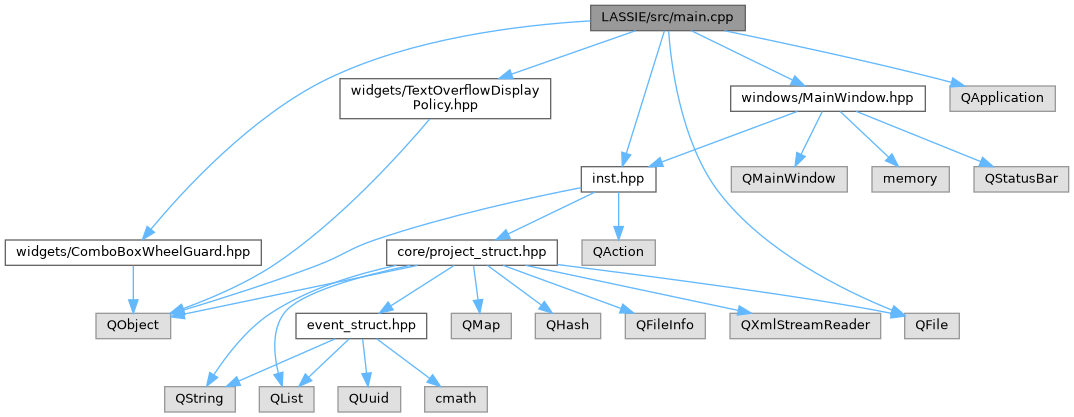
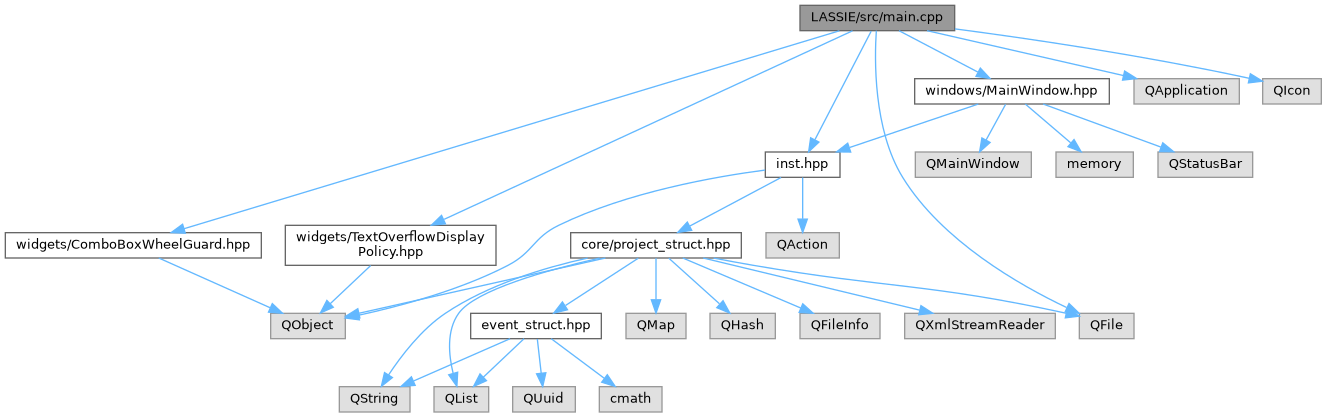
docs: publish latest (1a79f92d2aa4ea7b29a4f0150a3fbe156e6d1246) 1a79f92d2aa4ea7b29a4f0150a3fbe156e6d1246

diff --git a/latest/LASSIE/html/main_8cpp_source.html b/latest/LASSIE/html/main_8cpp_source.html
@@ -86,73 +86,128 @@ $(document).ready(function() { init_codefold(0); });
 <div class="line"><a id="l00002" name="l00002"></a><span class="lineno">    2</span> </div>
 <div class="line"><a id="l00003" name="l00003"></a><span class="lineno">    3</span><span class="preprocessor">#include &lt;QApplication&gt;</span></div>
 <div class="line"><a id="l00004" name="l00004"></a><span class="lineno">    4</span><span class="preprocessor">#include &lt;QFile&gt;</span></div>
-<div class="line"><a id="l00005" name="l00005"></a><span class="lineno">    5</span><span class="preprocessor">#ifdef DISSCO_ENABLE_UI_LAYOUT_TESTS</span></div>
-<div class="line"><a id="l00006" name="l00006"></a><span class="lineno">    6</span><span class="preprocessor">#include &lt;QDebug&gt;</span></div>
-<div class="line"><a id="l00007" name="l00007"></a><span class="lineno">    7</span><span class="preprocessor">#include &lt;QLabel&gt;</span></div>
-<div class="line"><a id="l00008" name="l00008"></a><span class="lineno">    8</span><span class="preprocessor">#include &lt;QLayout&gt;</span></div>
-<div class="line"><a id="l00009" name="l00009"></a><span class="lineno">    9</span><span class="preprocessor">#include &quot;<a class="code" href="EnvelopeLibraryWindow_8hpp.html">windows/EnvelopeLibraryWindow.hpp</a>&quot;</span></div>
-<div class="line"><a id="l00010" name="l00010"></a><span class="lineno">   10</span><span class="preprocessor">#endif</span></div>
-<div class="line"><a id="l00011" name="l00011"></a><span class="lineno">   11</span><span class="preprocessor">#include &quot;<a class="code" href="ComboBoxWheelGuard_8hpp.html">widgets/ComboBoxWheelGuard.hpp</a>&quot;</span></div>
-<div class="line"><a id="l00012" name="l00012"></a><span class="lineno">   12</span><span class="preprocessor">#include &quot;<a class="code" href="TextOverflowDisplayPolicy_8hpp.html">widgets/TextOverflowDisplayPolicy.hpp</a>&quot;</span></div>
-<div class="line"><a id="l00013" name="l00013"></a><span class="lineno">   13</span><span class="preprocessor">#include &quot;<a class="code" href="MainWindow_8hpp.html">windows/MainWindow.hpp</a>&quot;</span></div>
-<div class="line"><a id="l00014" name="l00014"></a><span class="lineno">   14</span> </div>
-<div class="line"><a id="l00015" name="l00015"></a><span class="lineno">   15</span><span class="keywordtype">void</span> <a class="code hl_function" href="main_8cpp.html#af7ab3ca3de0ba687af5c308a0180a0ee">registerAllFunctions</a>();</div>
-<div class="line"><a id="l00016" name="l00016"></a><span class="lineno">   16</span> </div>
-<div class="foldopen" id="foldopen00017" data-start="{" data-end="}">
-<div class="line"><a id="l00017" name="l00017"></a><span class="lineno"><a class="line" href="main_8cpp.html#a0ddf1224851353fc92bfbff6f499fa97">   17</a></span><span class="keywordtype">int</span> <a class="code hl_function" href="main_8cpp.html#a0ddf1224851353fc92bfbff6f499fa97">main</a>(<span class="keywordtype">int</span> argc, <span class="keywordtype">char</span> *argv[])</div>
-<div class="line"><a id="l00018" name="l00018"></a><span class="lineno">   18</span>{</div>
-<div class="line"><a id="l00019" name="l00019"></a><span class="lineno">   19</span>    <span class="comment">// QSettings (used here and in the Updater) needs stable org/app</span></div>
-<div class="line"><a id="l00020" name="l00020"></a><span class="lineno">   20</span>    <span class="comment">// metadata; otherwise its on-disk location is platform-default and</span></div>
-<div class="line"><a id="l00021" name="l00021"></a><span class="lineno">   21</span>    <span class="comment">// varies between binaries. Set before QApplication is constructed.</span></div>
-<div class="line"><a id="l00022" name="l00022"></a><span class="lineno">   22</span>    QCoreApplication::setOrganizationName(<span class="stringliteral">&quot;DISSCO&quot;</span>);</div>
-<div class="line"><a id="l00023" name="l00023"></a><span class="lineno">   23</span>    QCoreApplication::setOrganizationDomain(<span class="stringliteral">&quot;dissco.illinois.edu&quot;</span>);</div>
-<div class="line"><a id="l00024" name="l00024"></a><span class="lineno">   24</span>    QCoreApplication::setApplicationName(<span class="stringliteral">&quot;LASSIE&quot;</span>);</div>
+<div class="line"><a id="l00005" name="l00005"></a><span class="lineno">    5</span><span class="preprocessor">#include &lt;QIcon&gt;</span></div>
+<div class="line"><a id="l00006" name="l00006"></a><span class="lineno">    6</span><span class="preprocessor">#ifdef DISSCO_ENABLE_UI_LAYOUT_TESTS</span></div>
+<div class="line"><a id="l00007" name="l00007"></a><span class="lineno">    7</span><span class="preprocessor">#include &lt;QDebug&gt;</span></div>
+<div class="line"><a id="l00008" name="l00008"></a><span class="lineno">    8</span><span class="preprocessor">#include &lt;QFontDatabase&gt;</span></div>
+<div class="line"><a id="l00009" name="l00009"></a><span class="lineno">    9</span><span class="preprocessor">#include &lt;QFontInfo&gt;</span></div>
+<div class="line"><a id="l00010" name="l00010"></a><span class="lineno">   10</span><span class="preprocessor">#include &lt;QLabel&gt;</span></div>
+<div class="line"><a id="l00011" name="l00011"></a><span class="lineno">   11</span><span class="preprocessor">#include &lt;QLayout&gt;</span></div>
+<div class="line"><a id="l00012" name="l00012"></a><span class="lineno">   12</span><span class="preprocessor">#ifdef Q_OS_WIN</span></div>
+<div class="line"><a id="l00013" name="l00013"></a><span class="lineno">   13</span><span class="preprocessor">#ifndef NOGDI</span></div>
+<div class="line"><a id="l00014" name="l00014"></a><span class="lineno">   14</span><span class="preprocessor">#define NOGDI</span></div>
+<div class="line"><a id="l00015" name="l00015"></a><span class="lineno">   15</span><span class="preprocessor">#endif</span></div>
+<div class="line"><a id="l00016" name="l00016"></a><span class="lineno">   16</span><span class="preprocessor">#include &lt;qt_windows.h&gt;</span></div>
+<div class="line"><a id="l00017" name="l00017"></a><span class="lineno">   17</span><span class="preprocessor">#endif</span></div>
+<div class="line"><a id="l00018" name="l00018"></a><span class="lineno">   18</span><span class="preprocessor">#include &quot;<a class="code" href="EnvelopeLibraryWindow_8hpp.html">windows/EnvelopeLibraryWindow.hpp</a>&quot;</span></div>
+<div class="line"><a id="l00019" name="l00019"></a><span class="lineno">   19</span><span class="preprocessor">#endif</span></div>
+<div class="line"><a id="l00020" name="l00020"></a><span class="lineno">   20</span><span class="preprocessor">#include &quot;<a class="code" href="ComboBoxWheelGuard_8hpp.html">widgets/ComboBoxWheelGuard.hpp</a>&quot;</span></div>
+<div class="line"><a id="l00021" name="l00021"></a><span class="lineno">   21</span><span class="preprocessor">#include &quot;<a class="code" href="TextOverflowDisplayPolicy_8hpp.html">widgets/TextOverflowDisplayPolicy.hpp</a>&quot;</span></div>
+<div class="line"><a id="l00022" name="l00022"></a><span class="lineno">   22</span><span class="preprocessor">#include &quot;<a class="code" href="MainWindow_8hpp.html">windows/MainWindow.hpp</a>&quot;</span></div>
+<div class="line"><a id="l00023" name="l00023"></a><span class="lineno">   23</span> </div>
+<div class="line"><a id="l00024" name="l00024"></a><span class="lineno">   24</span><span class="keywordtype">void</span> <a class="code hl_function" href="main_8cpp.html#af7ab3ca3de0ba687af5c308a0180a0ee">registerAllFunctions</a>();</div>
 <div class="line"><a id="l00025" name="l00025"></a><span class="lineno">   25</span> </div>
-<div class="line"><a id="l00026" name="l00026"></a><span class="lineno">   26</span>    QApplication a(argc, argv);</div>
-<div class="line"><a id="l00027" name="l00027"></a><span class="lineno">   27</span>    <a class="code hl_class" href="classComboBoxWheelGuard.html">ComboBoxWheelGuard</a> comboBoxWheelGuard(a);</div>
-<div class="line"><a id="l00028" name="l00028"></a><span class="lineno">   28</span>    <a class="code hl_class" href="classTextOverflowDisplayPolicy.html">TextOverflowDisplayPolicy</a> textOverflowDisplayPolicy(a);</div>
-<div class="line"><a id="l00029" name="l00029"></a><span class="lineno">   29</span> </div>
-<div class="line"><a id="l00030" name="l00030"></a><span class="lineno">   30</span><span class="preprocessor">#ifdef DISSCO_ENABLE_UI_LAYOUT_TESTS</span></div>
-<div class="line"><a id="l00031" name="l00031"></a><span class="lineno">   31</span>    <span class="keywordflow">if</span> (qEnvironmentVariableIsSet(<span class="stringliteral">&quot;DISSCO_TEST_ENVELOPE_LAYOUT&quot;</span>)) {</div>
-<div class="line"><a id="l00032" name="l00032"></a><span class="lineno">   32</span>        <a class="code hl_class" href="classEnvelopeLibraryWindow.html">EnvelopeLibraryWindow</a> window;</div>
-<div class="line"><a id="l00033" name="l00033"></a><span class="lineno">   33</span>        window.ensurePolished();</div>
-<div class="line"><a id="l00034" name="l00034"></a><span class="lineno">   34</span>        window.show();</div>
-<div class="line"><a id="l00035" name="l00035"></a><span class="lineno">   35</span>        <span class="keywordflow">for</span> (<span class="keywordtype">int</span> i = 0; i &lt; 3; ++i) {</div>
-<div class="line"><a id="l00036" name="l00036"></a><span class="lineno">   36</span>            window.centralWidget()-&gt;layout()-&gt;activate();</div>
-<div class="line"><a id="l00037" name="l00037"></a><span class="lineno">   37</span>            QApplication::processEvents();</div>
-<div class="line"><a id="l00038" name="l00038"></a><span class="lineno">   38</span>        }</div>
-<div class="line"><a id="l00039" name="l00039"></a><span class="lineno">   39</span> </div>
-<div class="line"><a id="l00040" name="l00040"></a><span class="lineno">   40</span>        QLabel* legend = window.findChild&lt;QLabel*&gt;(<span class="stringliteral">&quot;envelopeLegend&quot;</span>);</div>
-<div class="line"><a id="l00041" name="l00041"></a><span class="lineno">   41</span>        <span class="keywordflow">if</span> (!legend) {</div>
-<div class="line"><a id="l00042" name="l00042"></a><span class="lineno">   42</span>            qCritical() &lt;&lt; <span class="stringliteral">&quot;Envelope legend was not found&quot;</span>;</div>
-<div class="line"><a id="l00043" name="l00043"></a><span class="lineno">   43</span>            <span class="keywordflow">return</span> 1;</div>
-<div class="line"><a id="l00044" name="l00044"></a><span class="lineno">   44</span>        }</div>
-<div class="line"><a id="l00045" name="l00045"></a><span class="lineno">   45</span> </div>
-<div class="line"><a id="l00046" name="l00046"></a><span class="lineno">   46</span>        <span class="keyword">const</span> QRect legendInCentral(</div>
-<div class="line"><a id="l00047" name="l00047"></a><span class="lineno">   47</span>            legend-&gt;mapTo(window.centralWidget(), QPoint()), legend-&gt;size());</div>
-<div class="line"><a id="l00048" name="l00048"></a><span class="lineno">   48</span>        <span class="keyword">const</span> <span class="keywordtype">int</span> requiredHeight = legend-&gt;heightForWidth(legend-&gt;width());</div>
-<div class="line"><a id="l00049" name="l00049"></a><span class="lineno">   49</span>        <span class="keyword">const</span> <span class="keywordtype">bool</span> fullyVisible =</div>
-<div class="line"><a id="l00050" name="l00050"></a><span class="lineno">   50</span>            window.centralWidget()-&gt;rect().contains(legendInCentral)</div>
-<div class="line"><a id="l00051" name="l00051"></a><span class="lineno">   51</span>            &amp;&amp; legend-&gt;visibleRegion().contains(legend-&gt;rect())</div>
-<div class="line"><a id="l00052" name="l00052"></a><span class="lineno">   52</span>            &amp;&amp; legend-&gt;height() &gt;= requiredHeight;</div>
-<div class="line"><a id="l00053" name="l00053"></a><span class="lineno">   53</span> </div>
-<div class="line"><a id="l00054" name="l00054"></a><span class="lineno">   54</span>        <span class="keywordflow">if</span> (!fullyVisible) {</div>
-<div class="line"><a id="l00055" name="l00055"></a><span class="lineno">   55</span>            qCritical() &lt;&lt; <span class="stringliteral">&quot;Envelope legend is clipped:&quot;</span></div>
-<div class="line"><a id="l00056" name="l00056"></a><span class="lineno">   56</span>                        &lt;&lt; <span class="stringliteral">&quot;actual&quot;</span> &lt;&lt; legend-&gt;size()</div>
-<div class="line"><a id="l00057" name="l00057"></a><span class="lineno">   57</span>                        &lt;&lt; <span class="stringliteral">&quot;required height&quot;</span> &lt;&lt; requiredHeight</div>
-<div class="line"><a id="l00058" name="l00058"></a><span class="lineno">   58</span>                        &lt;&lt; <span class="stringliteral">&quot;visible region&quot;</span> &lt;&lt; legend-&gt;visibleRegion();</div>
+<div class="foldopen" id="foldopen00026" data-start="{" data-end="}">
+<div class="line"><a id="l00026" name="l00026"></a><span class="lineno"><a class="line" href="main_8cpp.html#a0ddf1224851353fc92bfbff6f499fa97">   26</a></span><span class="keywordtype">int</span> <a class="code hl_function" href="main_8cpp.html#a0ddf1224851353fc92bfbff6f499fa97">main</a>(<span class="keywordtype">int</span> argc, <span class="keywordtype">char</span> *argv[])</div>
+<div class="line"><a id="l00027" name="l00027"></a><span class="lineno">   27</span>{</div>
+<div class="line"><a id="l00028" name="l00028"></a><span class="lineno">   28</span>    <span class="comment">// QSettings (used here and in the Updater) needs stable org/app</span></div>
+<div class="line"><a id="l00029" name="l00029"></a><span class="lineno">   29</span>    <span class="comment">// metadata; otherwise its on-disk location is platform-default and</span></div>
+<div class="line"><a id="l00030" name="l00030"></a><span class="lineno">   30</span>    <span class="comment">// varies between binaries. Set before QApplication is constructed.</span></div>
+<div class="line"><a id="l00031" name="l00031"></a><span class="lineno">   31</span>    QCoreApplication::setOrganizationName(<span class="stringliteral">&quot;DISSCO&quot;</span>);</div>
+<div class="line"><a id="l00032" name="l00032"></a><span class="lineno">   32</span>    QCoreApplication::setOrganizationDomain(<span class="stringliteral">&quot;dissco.illinois.edu&quot;</span>);</div>
+<div class="line"><a id="l00033" name="l00033"></a><span class="lineno">   33</span>    QCoreApplication::setApplicationName(<span class="stringliteral">&quot;LASSIE&quot;</span>);</div>
+<div class="line"><a id="l00034" name="l00034"></a><span class="lineno">   34</span> </div>
+<div class="line"><a id="l00035" name="l00035"></a><span class="lineno">   35</span>    QApplication a(argc, argv);</div>
+<div class="line"><a id="l00036" name="l00036"></a><span class="lineno">   36</span><span class="preprocessor">#ifndef Q_OS_MACOS</span></div>
+<div class="line"><a id="l00037" name="l00037"></a><span class="lineno">   37</span>    a.setWindowIcon(QIcon(QStringLiteral(<span class="stringliteral">&quot;:/icons/LASSIE.png&quot;</span>)));</div>
+<div class="line"><a id="l00038" name="l00038"></a><span class="lineno">   38</span><span class="preprocessor">#endif</span></div>
+<div class="line"><a id="l00039" name="l00039"></a><span class="lineno">   39</span><span class="preprocessor">#ifdef Q_OS_LINUX</span></div>
+<div class="line"><a id="l00040" name="l00040"></a><span class="lineno">   40</span>    a.setDesktopFileName(QStringLiteral(<span class="stringliteral">&quot;LASSIE&quot;</span>));</div>
+<div class="line"><a id="l00041" name="l00041"></a><span class="lineno">   41</span><span class="preprocessor">#endif</span></div>
+<div class="line"><a id="l00042" name="l00042"></a><span class="lineno">   42</span>    <a class="code hl_class" href="classComboBoxWheelGuard.html">ComboBoxWheelGuard</a> comboBoxWheelGuard(a);</div>
+<div class="line"><a id="l00043" name="l00043"></a><span class="lineno">   43</span>    <a class="code hl_class" href="classTextOverflowDisplayPolicy.html">TextOverflowDisplayPolicy</a> textOverflowDisplayPolicy(a);</div>
+<div class="line"><a id="l00044" name="l00044"></a><span class="lineno">   44</span> </div>
+<div class="line"><a id="l00045" name="l00045"></a><span class="lineno">   45</span><span class="preprocessor">#ifdef DISSCO_ENABLE_UI_LAYOUT_TESTS</span></div>
+<div class="line"><a id="l00046" name="l00046"></a><span class="lineno">   46</span><span class="preprocessor">#ifdef Q_OS_WIN</span></div>
+<div class="line"><a id="l00047" name="l00047"></a><span class="lineno">   47</span>    <span class="keywordflow">if</span> (qEnvironmentVariableIsSet(<span class="stringliteral">&quot;DISSCO_TEST_WINDOWS_FONT&quot;</span>)) {</div>
+<div class="line"><a id="l00048" name="l00048"></a><span class="lineno">   48</span>        <span class="keyword">const</span> QFont font = a.font();</div>
+<div class="line"><a id="l00049" name="l00049"></a><span class="lineno">   49</span>        <span class="keywordflow">if</span> (!QFontDatabase::families().contains(font.family(), Qt::CaseInsensitive)) {</div>
+<div class="line"><a id="l00050" name="l00050"></a><span class="lineno">   50</span>            qWarning() &lt;&lt; <span class="stringliteral">&quot;Skipping font check: system font uses an unlisted alias&quot;</span></div>
+<div class="line"><a id="l00051" name="l00051"></a><span class="lineno">   51</span>                       &lt;&lt; font.family();</div>
+<div class="line"><a id="l00052" name="l00052"></a><span class="lineno">   52</span>            <span class="keywordflow">return</span> 77;</div>
+<div class="line"><a id="l00053" name="l00053"></a><span class="lineno">   53</span>        }</div>
+<div class="line"><a id="l00054" name="l00054"></a><span class="lineno">   54</span>        <span class="keyword">const</span> QString resolvedFamily = QFontInfo(font).family();</div>
+<div class="line"><a id="l00055" name="l00055"></a><span class="lineno">   55</span>        <span class="keywordflow">if</span> (font.family().compare(resolvedFamily, Qt::CaseInsensitive) != 0) {</div>
+<div class="line"><a id="l00056" name="l00056"></a><span class="lineno">   56</span>            qCritical() &lt;&lt; <span class="stringliteral">&quot;Installed Windows system font was substituted:&quot;</span></div>
+<div class="line"><a id="l00057" name="l00057"></a><span class="lineno">   57</span>                        &lt;&lt; <span class="stringliteral">&quot;requested&quot;</span> &lt;&lt; font.family() &lt;&lt; <span class="stringliteral">&quot;resolved&quot;</span> &lt;&lt; resolvedFamily;</div>
+<div class="line"><a id="l00058" name="l00058"></a><span class="lineno">   58</span>            <span class="keywordflow">return</span> 1;</div>
 <div class="line"><a id="l00059" name="l00059"></a><span class="lineno">   59</span>        }</div>
-<div class="line"><a id="l00060" name="l00060"></a><span class="lineno">   60</span> </div>
-<div class="line"><a id="l00061" name="l00061"></a><span class="lineno">   61</span>        <span class="keywordflow">return</span> fullyVisible ? 0 : 1;</div>
-<div class="line"><a id="l00062" name="l00062"></a><span class="lineno">   62</span>    }</div>
-<div class="line"><a id="l00063" name="l00063"></a><span class="lineno">   63</span><span class="preprocessor">#endif</span></div>
-<div class="line"><a id="l00064" name="l00064"></a><span class="lineno">   64</span> </div>
-<div class="line"><a id="l00065" name="l00065"></a><span class="lineno">   65</span>    <a class="code hl_function" href="main_8cpp.html#af7ab3ca3de0ba687af5c308a0180a0ee">registerAllFunctions</a>();</div>
-<div class="line"><a id="l00066" name="l00066"></a><span class="lineno">   66</span>    <a class="code hl_class" href="classInst.html">Inst</a> *m = <a class="code hl_function" href="classInst.html#a381828beaa899ba49afd23d835ac514f">Inst::instance</a>();</div>
-<div class="line"><a id="l00067" name="l00067"></a><span class="lineno">   67</span>    <a class="code hl_class" href="classMainWindow.html">MainWindow</a> *w = <span class="keyword">new</span> <a class="code hl_class" href="classMainWindow.html">MainWindow</a>(m);</div>
-<div class="line"><a id="l00068" name="l00068"></a><span class="lineno">   68</span>    w-&gt;show();</div>
-<div class="line"><a id="l00069" name="l00069"></a><span class="lineno">   69</span>    <span class="keywordflow">return</span> a.exec();</div>
-<div class="line"><a id="l00070" name="l00070"></a><span class="lineno">   70</span>}</div>
+<div class="line"><a id="l00060" name="l00060"></a><span class="lineno">   60</span>        <span class="keywordflow">return</span> 0;</div>
+<div class="line"><a id="l00061" name="l00061"></a><span class="lineno">   61</span>    }</div>
+<div class="line"><a id="l00062" name="l00062"></a><span class="lineno">   62</span><span class="preprocessor">#endif</span></div>
+<div class="line"><a id="l00063" name="l00063"></a><span class="lineno">   63</span> </div>
+<div class="line"><a id="l00064" name="l00064"></a><span class="lineno">   64</span>    <span class="keywordflow">if</span> (qEnvironmentVariableIsSet(<span class="stringliteral">&quot;DISSCO_TEST_APPLICATION_IDENTITY&quot;</span>)) {</div>
+<div class="line"><a id="l00065" name="l00065"></a><span class="lineno">   65</span>        <a class="code hl_class" href="classEnvelopeLibraryWindow.html">EnvelopeLibraryWindow</a> window;</div>
+<div class="line"><a id="l00066" name="l00066"></a><span class="lineno">   66</span>        <span class="keywordflow">if</span> (a.windowIcon().pixmap(32, 32).isNull()</div>
+<div class="line"><a id="l00067" name="l00067"></a><span class="lineno">   67</span>            || window.windowIcon().pixmap(32, 32).isNull()) {</div>
+<div class="line"><a id="l00068" name="l00068"></a><span class="lineno">   68</span>            qCritical() &lt;&lt; <span class="stringliteral">&quot;Application and top-level windows must have a usable icon&quot;</span>;</div>
+<div class="line"><a id="l00069" name="l00069"></a><span class="lineno">   69</span>            <span class="keywordflow">return</span> 1;</div>
+<div class="line"><a id="l00070" name="l00070"></a><span class="lineno">   70</span>        }</div>
+<div class="line"><a id="l00071" name="l00071"></a><span class="lineno">   71</span><span class="preprocessor">#ifdef Q_OS_WIN</span></div>
+<div class="line"><a id="l00072" name="l00072"></a><span class="lineno">   72</span>        <span class="keywordflow">if</span> (!FindResourceW(<span class="keyword">nullptr</span>, MAKEINTRESOURCEW(1), RT_GROUP_ICON)) {</div>
+<div class="line"><a id="l00073" name="l00073"></a><span class="lineno">   73</span>            qCritical() &lt;&lt; <span class="stringliteral">&quot;Executable is missing its Windows application icon resource&quot;</span>;</div>
+<div class="line"><a id="l00074" name="l00074"></a><span class="lineno">   74</span>            <span class="keywordflow">return</span> 1;</div>
+<div class="line"><a id="l00075" name="l00075"></a><span class="lineno">   75</span>        }</div>
+<div class="line"><a id="l00076" name="l00076"></a><span class="lineno">   76</span><span class="preprocessor">#endif</span></div>
+<div class="line"><a id="l00077" name="l00077"></a><span class="lineno">   77</span><span class="preprocessor">#ifdef Q_OS_LINUX</span></div>
+<div class="line"><a id="l00078" name="l00078"></a><span class="lineno">   78</span>        <span class="keywordflow">if</span> (a.desktopFileName() != QStringLiteral(<span class="stringliteral">&quot;LASSIE&quot;</span>)) {</div>
+<div class="line"><a id="l00079" name="l00079"></a><span class="lineno">   79</span>            qCritical() &lt;&lt; <span class="stringliteral">&quot;Desktop identity must match LASSIE.desktop&quot;</span>;</div>
+<div class="line"><a id="l00080" name="l00080"></a><span class="lineno">   80</span>            <span class="keywordflow">return</span> 1;</div>
+<div class="line"><a id="l00081" name="l00081"></a><span class="lineno">   81</span>        }</div>
+<div class="line"><a id="l00082" name="l00082"></a><span class="lineno">   82</span><span class="preprocessor">#endif</span></div>
+<div class="line"><a id="l00083" name="l00083"></a><span class="lineno">   83</span>        <span class="keywordflow">return</span> 0;</div>
+<div class="line"><a id="l00084" name="l00084"></a><span class="lineno">   84</span>    }</div>
+<div class="line"><a id="l00085" name="l00085"></a><span class="lineno">   85</span> </div>
+<div class="line"><a id="l00086" name="l00086"></a><span class="lineno">   86</span>    <span class="keywordflow">if</span> (qEnvironmentVariableIsSet(<span class="stringliteral">&quot;DISSCO_TEST_ENVELOPE_LAYOUT&quot;</span>)) {</div>
+<div class="line"><a id="l00087" name="l00087"></a><span class="lineno">   87</span>        <a class="code hl_class" href="classEnvelopeLibraryWindow.html">EnvelopeLibraryWindow</a> window;</div>
+<div class="line"><a id="l00088" name="l00088"></a><span class="lineno">   88</span>        window.ensurePolished();</div>
+<div class="line"><a id="l00089" name="l00089"></a><span class="lineno">   89</span>        window.show();</div>
+<div class="line"><a id="l00090" name="l00090"></a><span class="lineno">   90</span>        <span class="keywordflow">for</span> (<span class="keywordtype">int</span> i = 0; i &lt; 3; ++i) {</div>
+<div class="line"><a id="l00091" name="l00091"></a><span class="lineno">   91</span>            window.centralWidget()-&gt;layout()-&gt;activate();</div>
+<div class="line"><a id="l00092" name="l00092"></a><span class="lineno">   92</span>            QApplication::processEvents();</div>
+<div class="line"><a id="l00093" name="l00093"></a><span class="lineno">   93</span>        }</div>
+<div class="line"><a id="l00094" name="l00094"></a><span class="lineno">   94</span> </div>
+<div class="line"><a id="l00095" name="l00095"></a><span class="lineno">   95</span>        QLabel* legend = window.findChild&lt;QLabel*&gt;(<span class="stringliteral">&quot;envelopeLegend&quot;</span>);</div>
+<div class="line"><a id="l00096" name="l00096"></a><span class="lineno">   96</span>        <span class="keywordflow">if</span> (!legend) {</div>
+<div class="line"><a id="l00097" name="l00097"></a><span class="lineno">   97</span>            qCritical() &lt;&lt; <span class="stringliteral">&quot;Envelope legend was not found&quot;</span>;</div>
+<div class="line"><a id="l00098" name="l00098"></a><span class="lineno">   98</span>            <span class="keywordflow">return</span> 1;</div>
+<div class="line"><a id="l00099" name="l00099"></a><span class="lineno">   99</span>        }</div>
+<div class="line"><a id="l00100" name="l00100"></a><span class="lineno">  100</span> </div>
+<div class="line"><a id="l00101" name="l00101"></a><span class="lineno">  101</span>        <span class="keyword">const</span> QRect legendInCentral(</div>
+<div class="line"><a id="l00102" name="l00102"></a><span class="lineno">  102</span>            legend-&gt;mapTo(window.centralWidget(), QPoint()), legend-&gt;size());</div>
+<div class="line"><a id="l00103" name="l00103"></a><span class="lineno">  103</span>        <span class="keyword">const</span> <span class="keywordtype">int</span> requiredHeight = legend-&gt;heightForWidth(legend-&gt;width());</div>
+<div class="line"><a id="l00104" name="l00104"></a><span class="lineno">  104</span>        <span class="keyword">const</span> <span class="keywordtype">bool</span> fullyVisible =</div>
+<div class="line"><a id="l00105" name="l00105"></a><span class="lineno">  105</span>            window.centralWidget()-&gt;rect().contains(legendInCentral)</div>
+<div class="line"><a id="l00106" name="l00106"></a><span class="lineno">  106</span>            &amp;&amp; legend-&gt;visibleRegion().contains(legend-&gt;rect())</div>
+<div class="line"><a id="l00107" name="l00107"></a><span class="lineno">  107</span>            &amp;&amp; legend-&gt;height() &gt;= requiredHeight;</div>
+<div class="line"><a id="l00108" name="l00108"></a><span class="lineno">  108</span> </div>
+<div class="line"><a id="l00109" name="l00109"></a><span class="lineno">  109</span>        <span class="keywordflow">if</span> (!fullyVisible) {</div>
+<div class="line"><a id="l00110" name="l00110"></a><span class="lineno">  110</span>            qCritical() &lt;&lt; <span class="stringliteral">&quot;Envelope legend is clipped:&quot;</span></div>
+<div class="line"><a id="l00111" name="l00111"></a><span class="lineno">  111</span>                        &lt;&lt; <span class="stringliteral">&quot;actual&quot;</span> &lt;&lt; legend-&gt;size()</div>
+<div class="line"><a id="l00112" name="l00112"></a><span class="lineno">  112</span>                        &lt;&lt; <span class="stringliteral">&quot;required height&quot;</span> &lt;&lt; requiredHeight</div>
+<div class="line"><a id="l00113" name="l00113"></a><span class="lineno">  113</span>                        &lt;&lt; <span class="stringliteral">&quot;visible region&quot;</span> &lt;&lt; legend-&gt;visibleRegion();</div>
+<div class="line"><a id="l00114" name="l00114"></a><span class="lineno">  114</span>        }</div>
+<div class="line"><a id="l00115" name="l00115"></a><span class="lineno">  115</span> </div>
+<div class="line"><a id="l00116" name="l00116"></a><span class="lineno">  116</span>        <span class="keywordflow">return</span> fullyVisible ? 0 : 1;</div>
+<div class="line"><a id="l00117" name="l00117"></a><span class="lineno">  117</span>    }</div>
+<div class="line"><a id="l00118" name="l00118"></a><span class="lineno">  118</span><span class="preprocessor">#endif</span></div>
+<div class="line"><a id="l00119" name="l00119"></a><span class="lineno">  119</span> </div>
+<div class="line"><a id="l00120" name="l00120"></a><span class="lineno">  120</span>    <a class="code hl_function" href="main_8cpp.html#af7ab3ca3de0ba687af5c308a0180a0ee">registerAllFunctions</a>();</div>
+<div class="line"><a id="l00121" name="l00121"></a><span class="lineno">  121</span>    <a class="code hl_class" href="classInst.html">Inst</a> *m = <a class="code hl_function" href="classInst.html#a381828beaa899ba49afd23d835ac514f">Inst::instance</a>();</div>
+<div class="line"><a id="l00122" name="l00122"></a><span class="lineno">  122</span>    <a class="code hl_class" href="classMainWindow.html">MainWindow</a> *w = <span class="keyword">new</span> <a class="code hl_class" href="classMainWindow.html">MainWindow</a>(m);</div>
+<div class="line"><a id="l00123" name="l00123"></a><span class="lineno">  123</span>    w-&gt;show();</div>
+<div class="line"><a id="l00124" name="l00124"></a><span class="lineno">  124</span>    <span class="keywordflow">return</span> a.exec();</div>
+<div class="line"><a id="l00125" name="l00125"></a><span class="lineno">  125</span>}</div>
 </div>
 <div class="ttc" id="aComboBoxWheelGuard_8hpp_html"><div class="ttname"><a href="ComboBoxWheelGuard_8hpp.html">ComboBoxWheelGuard.hpp</a></div></div>
 <div class="ttc" id="aEnvelopeLibraryWindow_8hpp_html"><div class="ttname"><a href="EnvelopeLibraryWindow_8hpp.html">EnvelopeLibraryWindow.hpp</a></div></div>
@@ -165,7 +220,7 @@ $(document).ready(function() { init_codefold(0); });
 <div class="ttc" id="aclassMainWindow_html"><div class="ttname"><a href="classMainWindow.html">MainWindow</a></div><div class="ttdoc">Top-level Qt main window for LASSIE.</div><div class="ttdef"><b>Definition</b> <a href="MainWindow_8hpp_source.html#l00039">MainWindow.hpp:40</a></div></div>
 <div class="ttc" id="aclassTextOverflowDisplayPolicy_html"><div class="ttname"><a href="classTextOverflowDisplayPolicy.html">TextOverflowDisplayPolicy</a></div><div class="ttdef"><b>Definition</b> <a href="TextOverflowDisplayPolicy_8hpp_source.html#l00013">TextOverflowDisplayPolicy.hpp:14</a></div></div>
 <div class="ttc" id="ainst_8hpp_html"><div class="ttname"><a href="inst_8hpp.html">inst.hpp</a></div></div>
-<div class="ttc" id="amain_8cpp_html_a0ddf1224851353fc92bfbff6f499fa97"><div class="ttname"><a href="main_8cpp.html#a0ddf1224851353fc92bfbff6f499fa97">main</a></div><div class="ttdeci">int main(int argc, char *argv[])</div><div class="ttdef"><b>Definition</b> <a href="main_8cpp_source.html#l00017">main.cpp:17</a></div></div>
+<div class="ttc" id="amain_8cpp_html_a0ddf1224851353fc92bfbff6f499fa97"><div class="ttname"><a href="main_8cpp.html#a0ddf1224851353fc92bfbff6f499fa97">main</a></div><div class="ttdeci">int main(int argc, char *argv[])</div><div class="ttdef"><b>Definition</b> <a href="main_8cpp_source.html#l00026">main.cpp:26</a></div></div>
 <div class="ttc" id="amain_8cpp_html_af7ab3ca3de0ba687af5c308a0180a0ee"><div class="ttname"><a href="main_8cpp.html#af7ab3ca3de0ba687af5c308a0180a0ee">registerAllFunctions</a></div><div class="ttdeci">void registerAllFunctions()</div><div class="ttdef"><b>Definition</b> <a href="FunctionRegistrations_8cpp_source.html#l00035">FunctionRegistrations.cpp:35</a></div></div>
 </div><!-- fragment --></div><!-- contents -->
 <!-- start footer part -->

diff --git a/latest/LASSIE/html/main_8cpp.html b/latest/LASSIE/html/main_8cpp.html
@@ -82,6 +82,7 @@ $(function() {
 <div class="textblock"><code>#include &quot;<a class="el" href="inst_8hpp_source.html">inst.hpp</a>&quot;</code><br />
 <code>#include &lt;QApplication&gt;</code><br />
 <code>#include &lt;QFile&gt;</code><br />
+<code>#include &lt;QIcon&gt;</code><br />
 <code>#include &quot;<a class="el" href="ComboBoxWheelGuard_8hpp_source.html">widgets/ComboBoxWheelGuard.hpp</a>&quot;</code><br />
 <code>#include &quot;<a class="el" href="TextOverflowDisplayPolicy_8hpp_source.html">widgets/TextOverflowDisplayPolicy.hpp</a>&quot;</code><br />
 <code>#include &quot;<a class="el" href="MainWindow_8hpp_source.html">windows/MainWindow.hpp</a>&quot;</code><br />
@@ -90,56 +91,58 @@ Include dependency graph for main.cpp:</div>
 <div class="dyncontent">
 <div class="center"><img src="main_8cpp__incl.png" border="0" usemap="#aLASSIE_2src_2main_8cpp" alt=""/></div>
 <map name="aLASSIE_2src_2main_8cpp" id="aLASSIE_2src_2main_8cpp">
-<area shape="rect" title=" " alt="" coords="591,5,745,31"/>
-<area shape="rect" href="inst_8hpp.html" title=" " alt="" coords="581,167,656,192"/>
-<area shape="poly" title=" " alt="" coords="667,32,629,154,624,152,662,30"/>
-<area shape="rect" title=" " alt="" coords="905,313,959,339"/>
-<area shape="poly" title=" " alt="" coords="671,31,675,61,682,103,697,148,721,190,760,231,806,264,852,289,893,308,891,313,850,294,803,268,756,235,717,194,692,151,677,104,669,62,666,31"/>
-<area shape="rect" title=" " alt="" coords="950,86,1055,111"/>
-<area shape="poly" title=" " alt="" coords="725,28,938,76,952,80,951,85,937,81,724,33"/>
-<area shape="rect" href="ComboBoxWheelGuard_8hpp.html" title=" " alt="" coords="5,240,261,265"/>
-<area shape="poly" title=" " alt="" coords="591,24,531,29,464,39,395,56,329,81,274,115,224,156,183,197,153,231,149,228,179,193,221,152,271,110,327,76,394,51,463,34,531,23,590,18"/>
-<area shape="rect" href="TextOverflowDisplayPolicy_8hpp.html" title=" " alt="" coords="340,79,551,119"/>
-<area shape="poly" title=" " alt="" coords="637,33,513,77,511,72,635,28"/>
-<area shape="rect" href="MainWindow_8hpp.html" title=" " alt="" coords="731,86,925,111"/>
-<area shape="poly" title=" " alt="" coords="692,28,794,78,791,82,690,33"/>
-<area shape="rect" title=" " alt="" coords="96,313,171,339"/>
-<area shape="poly" title=" " alt="" coords="582,190,487,211,376,243,318,268,185,312,183,307,316,263,374,237,486,206,581,185"/>
-<area shape="rect" title=" " alt="" coords="582,240,655,265"/>
-<area shape="poly" title=" " alt="" coords="621,192,621,226,616,226,616,192"/>
-<area shape="rect" href="project__struct_8hpp.html" title="In&#45;memory model of a DISSCO project and its top&#45;level manager." alt="" coords="387,240,557,265"/>
-<area shape="poly" title=" " alt="" coords="596,194,509,236,507,232,594,190"/>
-<area shape="poly" title=" " alt="" coords="418,268,184,317,183,312,417,263"/>
-<area shape="rect" title=" " alt="" coords="165,387,235,412"/>
-<area shape="poly" title=" " alt="" coords="397,268,334,286,302,299,272,316,240,345,216,377,212,373,236,341,269,311,299,294,332,281,396,263"/>
-<area shape="rect" title=" " alt="" coords="259,387,314,412"/>
-<area shape="poly" title=" " alt="" coords="411,268,335,288,305,301,286,315,280,328,277,343,281,373,276,374,272,343,275,327,282,312,302,296,334,283,410,263"/>
-<area shape="rect" title=" " alt="" coords="451,313,511,339"/>
-<area shape="poly" title=" " alt="" coords="476,265,481,299,475,300,471,266"/>
-<area shape="rect" title=" " alt="" coords="535,313,601,339"/>
-<area shape="poly" title=" " alt="" coords="489,263,543,303,540,307,486,268"/>
-<area shape="poly" title=" " alt="" coords="558,262,732,285,892,311,891,316,731,290,557,267"/>
-<area shape="rect" title=" " alt="" coords="625,313,705,339"/>
-<area shape="poly" title=" " alt="" coords="504,263,622,306,620,311,502,268"/>
-<area shape="rect" title=" " alt="" coords="730,313,881,339"/>
-<area shape="poly" title=" " alt="" coords="526,263,739,308,738,313,525,268"/>
-<area shape="rect" href="event__struct_8hpp.html" title=" " alt="" coords="296,313,427,339"/>
-<area shape="poly" title=" " alt="" coords="456,268,393,308,390,303,453,263"/>
-<area shape="poly" title=" " alt="" coords="336,341,240,383,238,379,334,336"/>
-<area shape="poly" title=" " alt="" coords="351,341,311,379,307,375,348,337"/>
-<area shape="rect" title=" " alt="" coords="338,387,401,412"/>
-<area shape="poly" title=" " alt="" coords="365,339,369,373,364,373,360,339"/>
-<area shape="rect" title=" " alt="" coords="425,387,487,412"/>
-<area shape="poly" title=" " alt="" coords="378,337,431,376,428,380,375,341"/>
-<area shape="poly" title=" " alt="" coords="136,266,136,300,131,300,131,266"/>
-<area shape="poly" title=" " alt="" coords="432,121,367,191,323,231,275,268,229,293,184,311,182,306,227,288,272,263,320,227,363,187,428,117"/>
-<area shape="poly" title=" " alt="" coords="798,114,663,164,661,159,797,109"/>
-<area shape="rect" title=" " alt="" coords="731,167,847,192"/>
-<area shape="poly" title=" " alt="" coords="825,113,804,155,799,153,820,110"/>
-<area shape="rect" title=" " alt="" coords="872,167,949,192"/>
-<area shape="poly" title=" " alt="" coords="842,110,890,155,887,159,838,113"/>
-<area shape="rect" title=" " alt="" coords="974,167,1069,192"/>
-<area shape="poly" title=" " alt="" coords="857,109,982,159,980,164,855,114"/>
+<area shape="rect" title=" " alt="" coords="800,5,955,31"/>
+<area shape="rect" href="inst_8hpp.html" title=" " alt="" coords="765,152,840,177"/>
+<area shape="poly" title=" " alt="" coords="874,32,817,141,813,138,869,30"/>
+<area shape="rect" title=" " alt="" coords="1079,313,1134,339"/>
+<area shape="poly" title=" " alt="" coords="879,31,880,96,888,137,905,176,940,219,983,256,1028,284,1068,305,1065,310,1025,289,980,260,936,223,900,179,883,139,875,97,874,31"/>
+<area shape="rect" title=" " alt="" coords="1134,79,1239,104"/>
+<area shape="poly" title=" " alt="" coords="928,28,1124,73,1123,78,926,33"/>
+<area shape="rect" title=" " alt="" coords="1263,79,1321,104"/>
+<area shape="poly" title=" " alt="" coords="955,26,1089,46,1250,76,1249,81,1089,51,955,32"/>
+<area shape="rect" href="ComboBoxWheelGuard_8hpp.html" title=" " alt="" coords="5,233,261,258"/>
+<area shape="poly" title=" " alt="" coords="840,33,185,231,183,226,839,28"/>
+<area shape="rect" href="TextOverflowDisplayPolicy_8hpp.html" title=" " alt="" coords="285,225,496,265"/>
+<area shape="poly" title=" " alt="" coords="854,33,445,222,443,217,851,28"/>
+<area shape="rect" href="MainWindow_8hpp.html" title=" " alt="" coords="915,79,1109,104"/>
+<area shape="poly" title=" " alt="" coords="900,28,979,70,977,74,898,33"/>
+<area shape="rect" title=" " alt="" coords="271,313,345,339"/>
+<area shape="poly" title=" " alt="" coords="765,173,670,190,614,206,560,228,545,237,535,247,525,257,509,268,432,299,359,318,358,313,430,294,507,263,521,253,531,243,542,233,557,223,612,201,668,185,765,167"/>
+<area shape="rect" title=" " alt="" coords="766,233,839,258"/>
+<area shape="poly" title=" " alt="" coords="805,178,805,219,800,219,800,178"/>
+<area shape="rect" href="project__struct_8hpp.html" title="In&#45;memory model of a DISSCO project and its top&#45;level manager." alt="" coords="571,233,741,258"/>
+<area shape="poly" title=" " alt="" coords="782,180,691,228,689,224,780,175"/>
+<area shape="poly" title=" " alt="" coords="606,261,360,316,359,311,605,255"/>
+<area shape="rect" title=" " alt="" coords="339,387,410,412"/>
+<area shape="poly" title=" " alt="" coords="588,261,517,281,481,296,447,315,415,345,391,377,386,373,411,341,444,311,478,292,515,276,587,255"/>
+<area shape="rect" title=" " alt="" coords="434,387,489,412"/>
+<area shape="poly" title=" " alt="" coords="600,261,517,284,482,299,461,315,455,328,452,343,456,373,450,374,447,343,449,327,457,312,479,294,515,279,599,255"/>
+<area shape="rect" title=" " alt="" coords="626,313,686,339"/>
+<area shape="poly" title=" " alt="" coords="659,258,659,299,653,299,653,258"/>
+<area shape="rect" title=" " alt="" coords="710,313,775,339"/>
+<area shape="poly" title=" " alt="" coords="671,256,721,302,718,306,667,260"/>
+<area shape="poly" title=" " alt="" coords="714,255,754,263,909,284,978,294,1067,311,1066,316,977,299,908,289,753,268,713,261"/>
+<area shape="rect" title=" " alt="" coords="800,313,880,339"/>
+<area shape="poly" title=" " alt="" coords="684,256,802,306,800,311,682,260"/>
+<area shape="rect" title=" " alt="" coords="905,313,1055,339"/>
+<area shape="poly" title=" " alt="" coords="704,255,920,308,919,313,702,261"/>
+<area shape="rect" href="event__struct_8hpp.html" title=" " alt="" coords="471,313,601,339"/>
+<area shape="poly" title=" " alt="" coords="640,260,567,308,564,303,637,256"/>
+<area shape="poly" title=" " alt="" coords="511,341,415,383,412,379,509,336"/>
+<area shape="poly" title=" " alt="" coords="526,341,485,379,482,375,522,337"/>
+<area shape="rect" title=" " alt="" coords="513,387,575,412"/>
+<area shape="poly" title=" " alt="" coords="540,339,544,373,539,373,535,339"/>
+<area shape="rect" title=" " alt="" coords="599,387,662,412"/>
+<area shape="poly" title=" " alt="" coords="553,337,606,376,603,380,550,341"/>
+<area shape="poly" title=" " alt="" coords="160,256,271,305,269,310,158,260"/>
+<area shape="poly" title=" " alt="" coords="372,267,332,306,328,302,369,264"/>
+<area shape="poly" title=" " alt="" coords="979,107,851,150,849,145,978,101"/>
+<area shape="rect" title=" " alt="" coords="915,152,1031,177"/>
+<area shape="poly" title=" " alt="" coords="1008,106,988,141,984,139,1003,103"/>
+<area shape="rect" title=" " alt="" coords="1056,152,1133,177"/>
+<area shape="poly" title=" " alt="" coords="1027,102,1072,141,1069,145,1024,106"/>
+<area shape="rect" title=" " alt="" coords="1158,152,1253,177"/>
+<area shape="poly" title=" " alt="" coords="1044,102,1162,145,1160,150,1042,107"/>
 </map>
 </div>
 </div>
@@ -179,7 +182,7 @@ Functions</h2></td></tr>
       </table>
 </div><div class="memdoc">
 
-<p class="definition">Definition at line <a class="el" href="main_8cpp_source.html#l00017">17</a> of file <a class="el" href="main_8cpp_source.html">main.cpp</a>.</p>
+<p class="definition">Definition at line <a class="el" href="main_8cpp_source.html#l00026">26</a> of file <a class="el" href="main_8cpp_source.html">main.cpp</a>.</p>
 <div class="dynheader">
 Here is the call graph for this function:</div>
 <div class="dyncontent">
